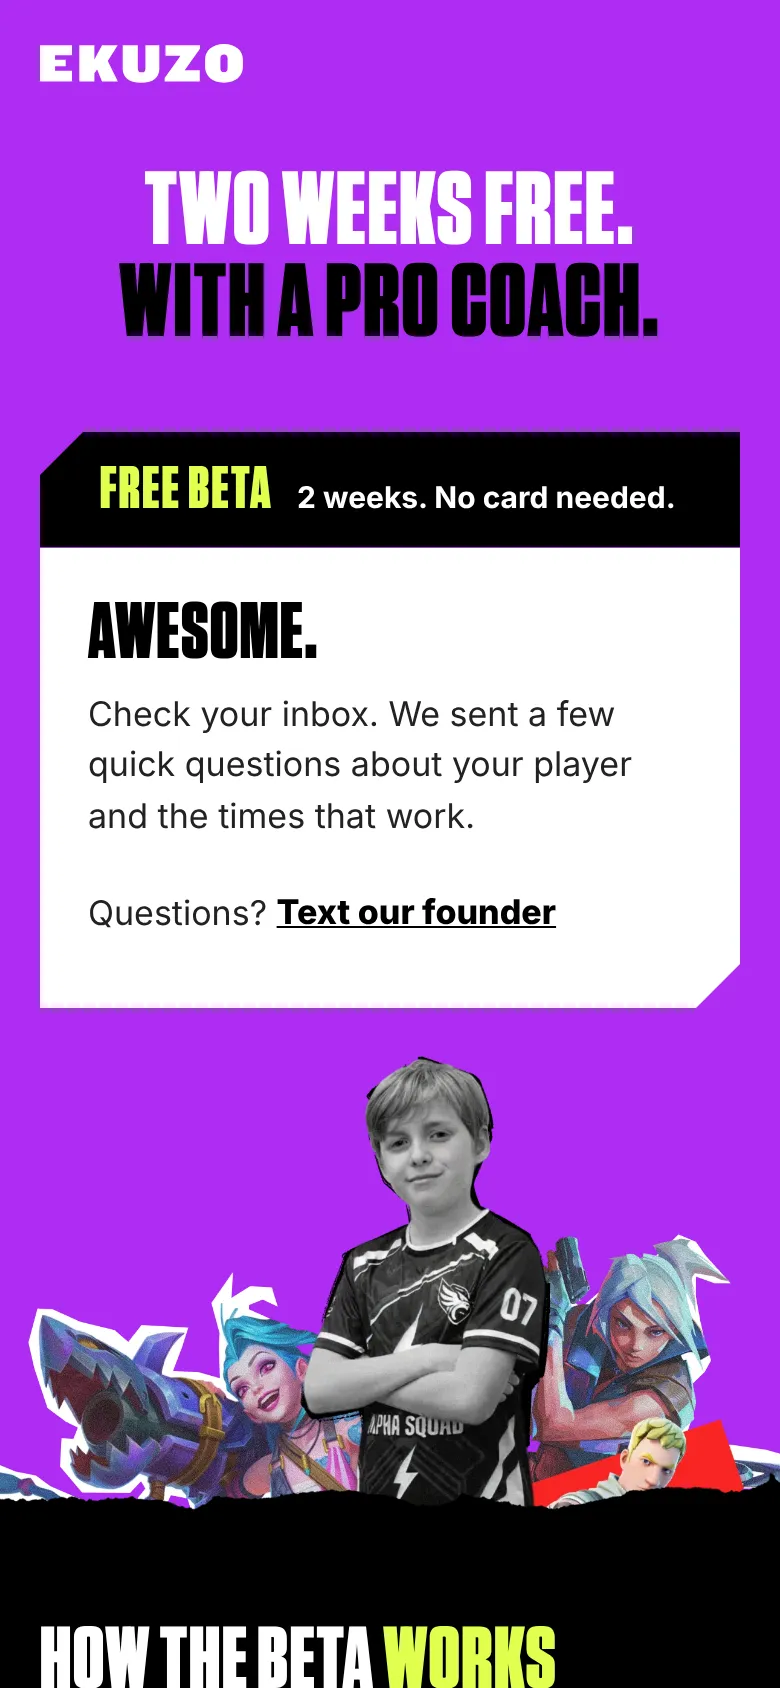
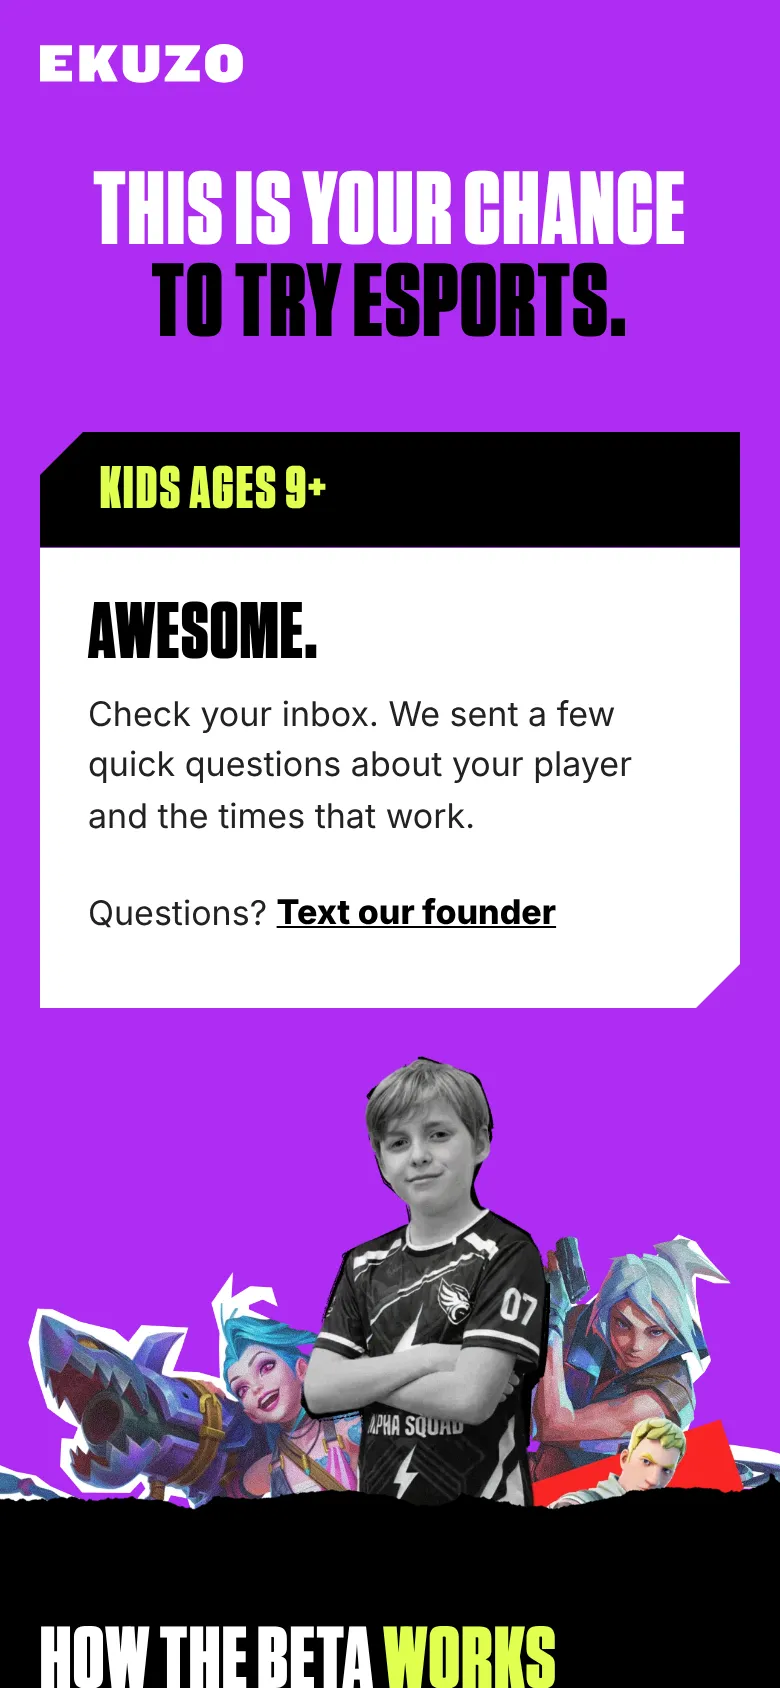
Season 01 BETA page: new hero copy, 'free' said less often
Claude-Session: https://claude.ai/code/session_01543UG8e9JwTD5Qg5aKwmc9

Changed region(s): [[0.1231, 0.0924, 0.8923, 0.2156], [0.1231, 0.2464, 0.9538, 0.3081]]

diff --git a/public/roadshow/beta-lab.html b/public/roadshow/beta-lab.html
@@ -140,7 +140,7 @@ footer{color:var(--muted);font-size:14px;border-top:1px solid var(--line);paddin
     <h2>The screens</h2>
     <p class="sub">The BETA landing page as a parent sees it, from the ad to the confirmation.</p>
     <div class="screens">
-      <figure><img src="beta/screens/landing-phone.webp" alt="BETA page on a phone: purple hero, Two weeks free. With a pro coach., and the email card." width="390" height="844" loading="lazy"><figcaption><b>1. Landing</b>The Join page's purple hero with one email field. Every button reads "Join our free beta".</figcaption></figure>
+      <figure><img src="beta/screens/landing-phone.webp" alt="BETA page on a phone: purple hero, This is your chance to try esports, and the email card." width="390" height="844" loading="lazy"><figcaption><b>1. Landing</b>The Join page's purple hero with one email field. Every button reads "Join our free beta".</figcaption></figure>
       <figure><img src="beta/screens/landing-phone-how.webp" alt="BETA page on a phone: how the beta works in three steps." width="390" height="844" loading="lazy"><figcaption><b>2. How the beta works</b>Three steps, then the coaches and seven short answers.</figcaption></figure>
       <figure><img src="beta/screens/confirmation-phone.webp" alt="Confirmation on a phone: Awesome. Check your inbox for a note from Karlin." width="390" height="844" loading="lazy"><figcaption><b>3. Confirmation</b>Replaces the form right after the email. It points to the inbox for the next step.</figcaption></figure>
       <figure class="wide"><img src="beta/screens/landing-desktop.webp" alt="BETA page on desktop: purple hero with the headline and email card in the middle and the characters on each side." width="1440" height="900" loading="lazy"><figcaption><b>Desktop</b>The same page at 1440 wide.</figcaption></figure>

diff --git a/app/season1/beta/beta.html b/app/season1/beta/beta.html
@@ -177,13 +177,13 @@ a{color:inherit}
 </head>
 <body>
 <header class="hero">
-<div class="wrap"><nav class="nav" aria-label="EKUZO"><a class="logo" href="/"><img src="/images/ekuzo-logo.svg" alt="EKUZO" width="107" height="21"></a><a class="mini" href="#join">Join our free beta</a></nav></div>
+<div class="wrap"><nav class="nav" aria-label="EKUZO"><a class="logo" href="/"><img src="/images/ekuzo-logo.svg" alt="EKUZO" width="107" height="21"></a><a class="mini" href="#join">Join the beta</a></nav></div>
 <div class="hero-in wrap">
-<h1 class="d h1">Two weeks free.<br><em>With a pro coach.</em></h1>
+<h1 class="d h1">This is your chance<br><em>to try esports.</em></h1>
 <div class="join" id="join">
-<p class="tag"><b>Free beta</b> <small>2 weeks. No card needed.</small></p>
+<p class="tag"><b>Kids ages 9+</b></p>
 <form class="card" id="f" method="post" action="javascript:void(0)" novalidate>
-<p class="lede">A free beta for kids ages 9+, before Season 01 starts. A real team and real practice, just like&nbsp;sports.</p>
+<p class="lede">A free trial with a pro coach, their peers and real practice, just like&nbsp;sports.</p>
 <label class="field"><span class="sr">Your email</span>
 <input id="em" type="email" name="email" autocomplete="email" autocapitalize="off" autocorrect="off" spellcheck="false" inputmode="email" enterkeyhint="go" placeholder="Your email" required></label>
 <input class="hp" type="text" name="ekz_hp" tabindex="-1" autocomplete="off" aria-hidden="true" data-1p-ignore data-lpignore="true" data-form-type="other">

diff --git a/WORKLOG.md b/WORKLOG.md
@@ -4,6 +4,10 @@
 
 **Format:** Most recent entry at the top. Include your name, date, and what changed.
 
+## Aaron's Claude, 2026-11-11: /season1/beta hero copy, fewer "free"s (dev)
+
+- `app/season1/beta/beta.html`, hero copy only (Aaron): headline "This is your chance / to try esports.", black sticker "Kids ages 9+" (was "Free beta, 2 weeks. No card needed."), card line "A free trial with a pro coach, their peers and real practice, just like sports.", nav button "Join the beta". The card button stays "Join our free beta". Beta lab screens retaken. Checked at 390 and 1440.
+
 ## Aaron's Claude, 2026-11-11: BETA sign-up wizard draft and updated flow (dev)
 
 Aaron's flow: beta ad to the BETA page (email sign-up); Karlin's email to a plain reply. Once we have an email, we invite the parent to a 3-step wizard. Goal of the wizard: evaluate players and see if availability and volume line up. The confirmation process is being decided Nov 12.
